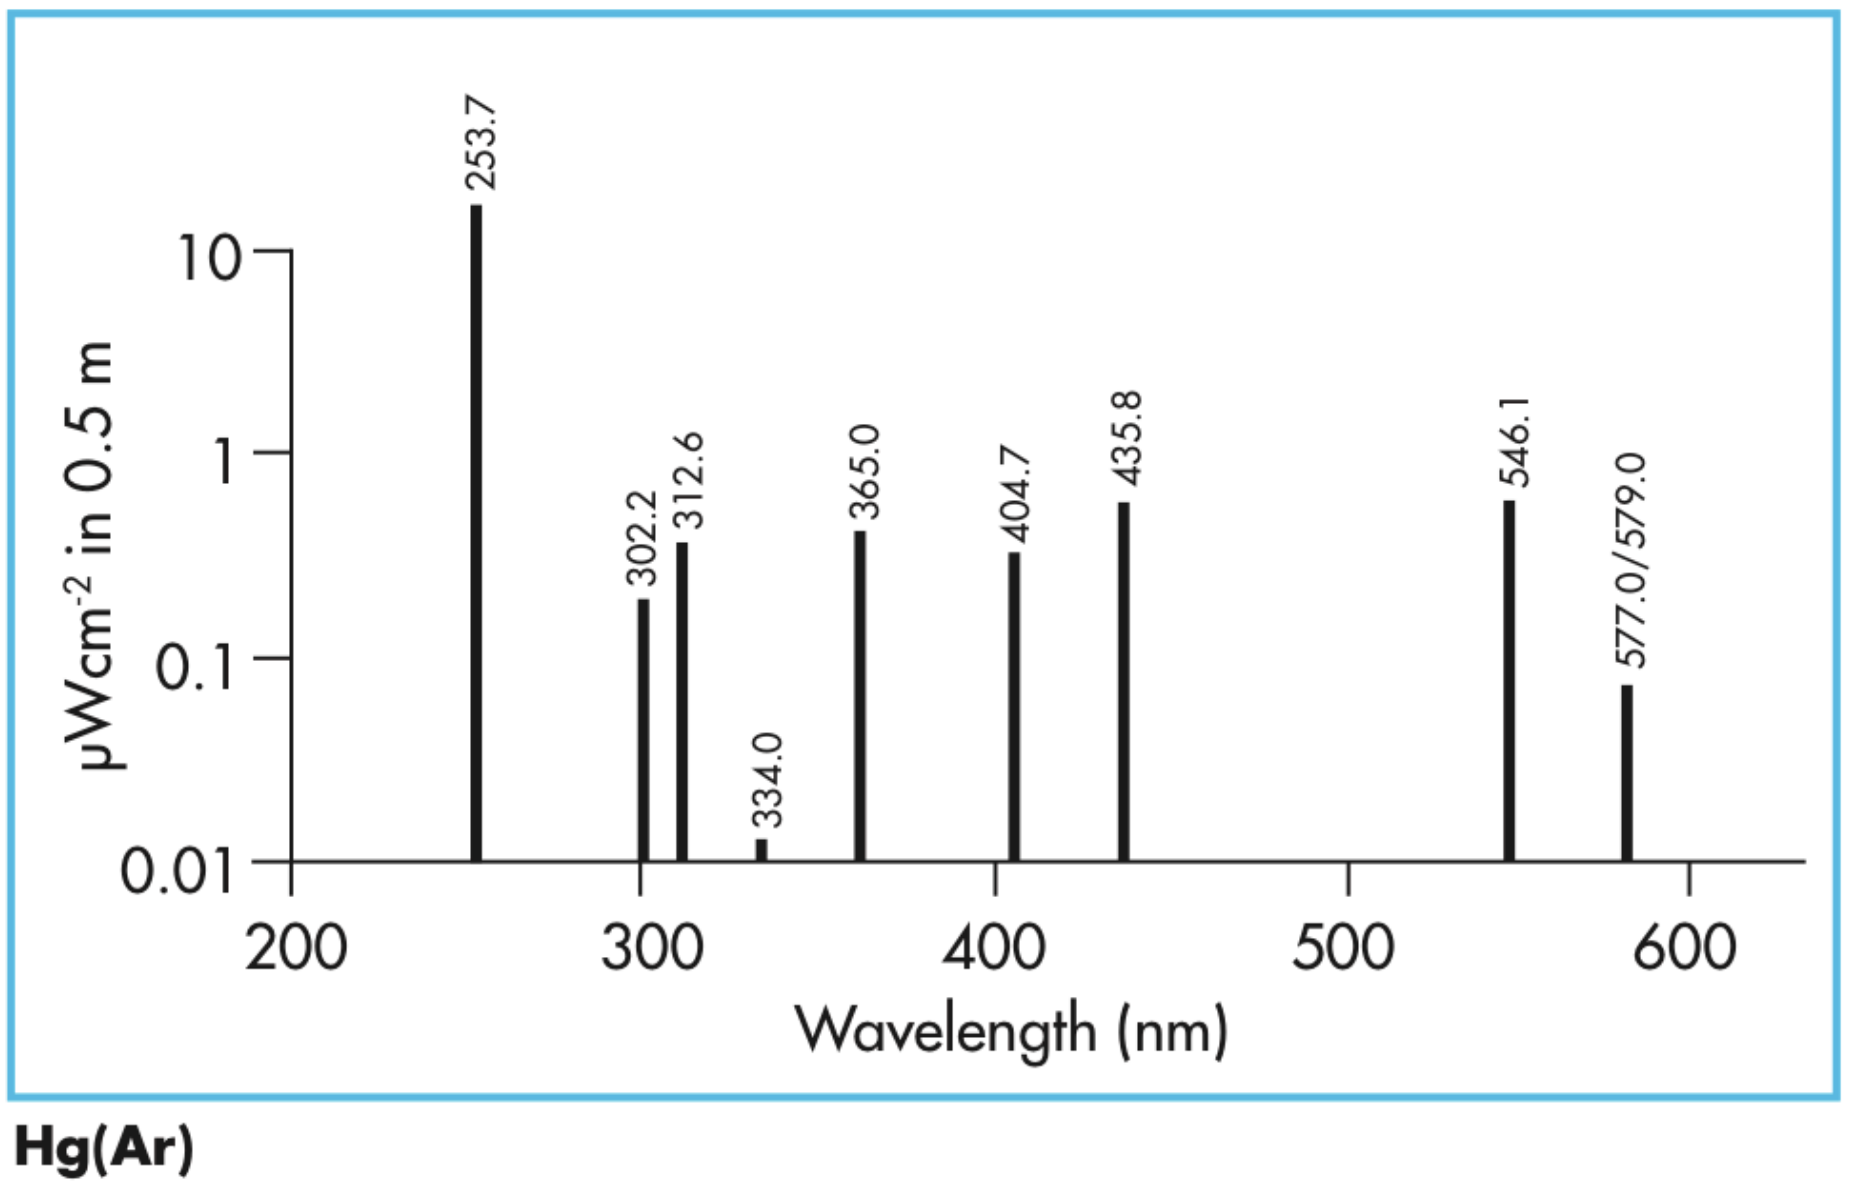
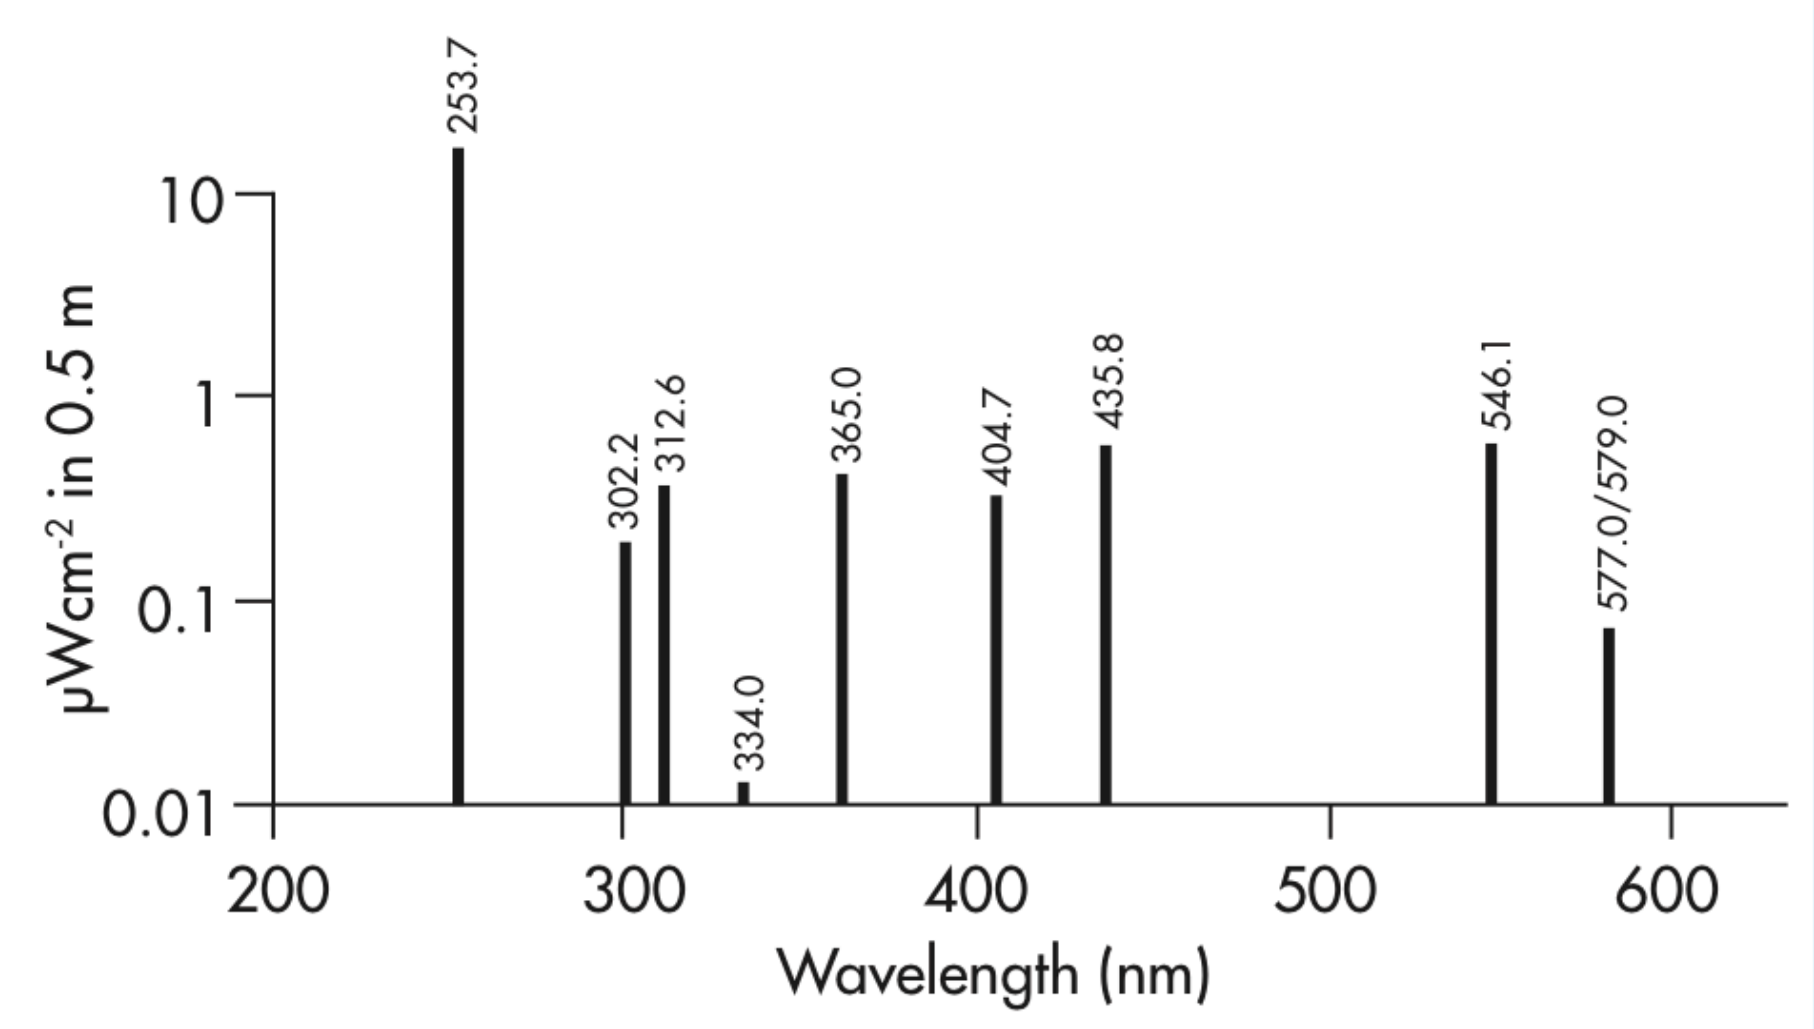
Finished Section 5.1

Changed region(s): [[0.0, 0.0, 1.0, 0.9951], [0.4322, 0.3732, 0.4939, 0.4665]]

diff --git a/Evaluation/Evaluation_ISO.tex b/Evaluation/Evaluation_ISO.tex
@@ -431,35 +431,58 @@ The sharp emission lines of mercury were later used to calibrate the wavelength 
 \section{Results}
 \subsection{Wavelength Calibration of the Monochromator}
 
-xxx
+To calibrate the wavelength scale of the monochromator we recorded the emission spectrum of a mercury low-pressure lamp and compared the measured peak positions to the known reference wavelengths.
+The recorded spectrum and the literature spectrum are shown in Figure~\ref{fig:hg_measured} and Figure~\ref{fig:hg_reference}.
+Because the monochromator scans mechanically and the motor does not have an absolute zero point, small wavelength offsets of a few nanometers are common and must be corrected.
 
+The measured mercury spectrum shows several sharp lines on top of a very low background.
+One extremely strong peak appears near 512\,nm.
+This does not correspond to any real mercury line in the visible range.
+It is a first-order diffraction peak of the ultraviolet 253.7\,nm line and is therefore ignored in the calibration.
+
+All other peaks in the recorded spectrum match the characteristic mercury lines and can be used for the calibration.
+By inspecting the plotted spectrum we first estimated the approximate positions of the visible peaks by eye.
+For each of these guesses we then searched the data in a small interval of $\pm 3$\,nm and selected the exact wavelength at which the measured intensity reached its maximum.
+
+The following reference wavelengths were used:
+\[
+\lambda_{\mathrm{ref}} = (365.0,\; 404.7,\; 435.8,\; 546.1,\; 577.0,\; 579.0)\,\mathrm{nm}.
+\]
+The corresponding measured peak positions were found to be:
+\[
+\lambda_{\mathrm{meas}} = (369.3,\; 409.0,\; 440.4,\; 550.8,\; 581.7,\; 583.8)\,\mathrm{nm}.
+\]
+
+For each line we formed the wavelength difference
+\[
+\Delta\lambda_i = \lambda_{\mathrm{ref},i} - \lambda_{\mathrm{meas},i}.
+\]
+All six values were close to one another, with a mean shift of
+\[
+\Delta\lambda = -4.57\,\mathrm{nm}.
+\]
+
+This constant offset was applied to all other spectra in the form
+\[
+\lambda_{\mathrm{corr}} = \lambda_{\mathrm{meas}} + \Delta\lambda.
+\]
+After this correction the mercury lines align well with the literature values and the wavelength scale of the monochromator is considered calibrated.
+
+\vspace{1em}
 \begin{figure}[H]
     \centering
-    \includegraphics[width=1.0\textwidth]{../resources/figures/HgSpectrum_recorded.png}
-    \caption{xxx}
-    \label{fig:HgRecorded}
+    \includegraphics[width=0.88\textwidth]{../resources/figures/HgSpectrum_measured.png}
+    \caption{Measured mercury spectrum used for wavelength calibration.
+    The very strong peak near 512\,nm is a first-order diffraction of the 253.7\,nm UV line and is not used in the calibration.}
+    \label{fig:hg_measured}
 \end{figure}
 
 \begin{figure}[H]
     \centering
-    \includegraphics[width=1.0\textwidth]{../resources/figures/HgSpectrum.png}
-    \caption{xxx}
-    \label{fig:Hg1}
+    \includegraphics[width=0.75\textwidth]{../resources/figures/HgSpectrum.png}
+    \caption{Reference emission spectrum of a mercury low-pressure lamp~\cite{ISOAnleitung}.}
+    \label{fig:hg_reference}
 \end{figure}
-
-\begin{figure}[H]
-    \centering
-    \includegraphics[width=1.0\textwidth]{../resources/figures/HgSpectrum2.png}
-    \caption{xxx}
-    \label{fig:Hg2}
-\end{figure}
-
-
-
-% Task h)
-% - Use the Hg lamp spectrum to identify the known mercury emission lines.
-% - Compare measured peak positions with literature wavelengths and determine the calibration function (e.g., linear or affine correction).
-% - Apply this correction to all other spectra.
 
 \subsection{Ruby Transmission / Absorption Spectrum (350–720 nm)}
 % Task i)
